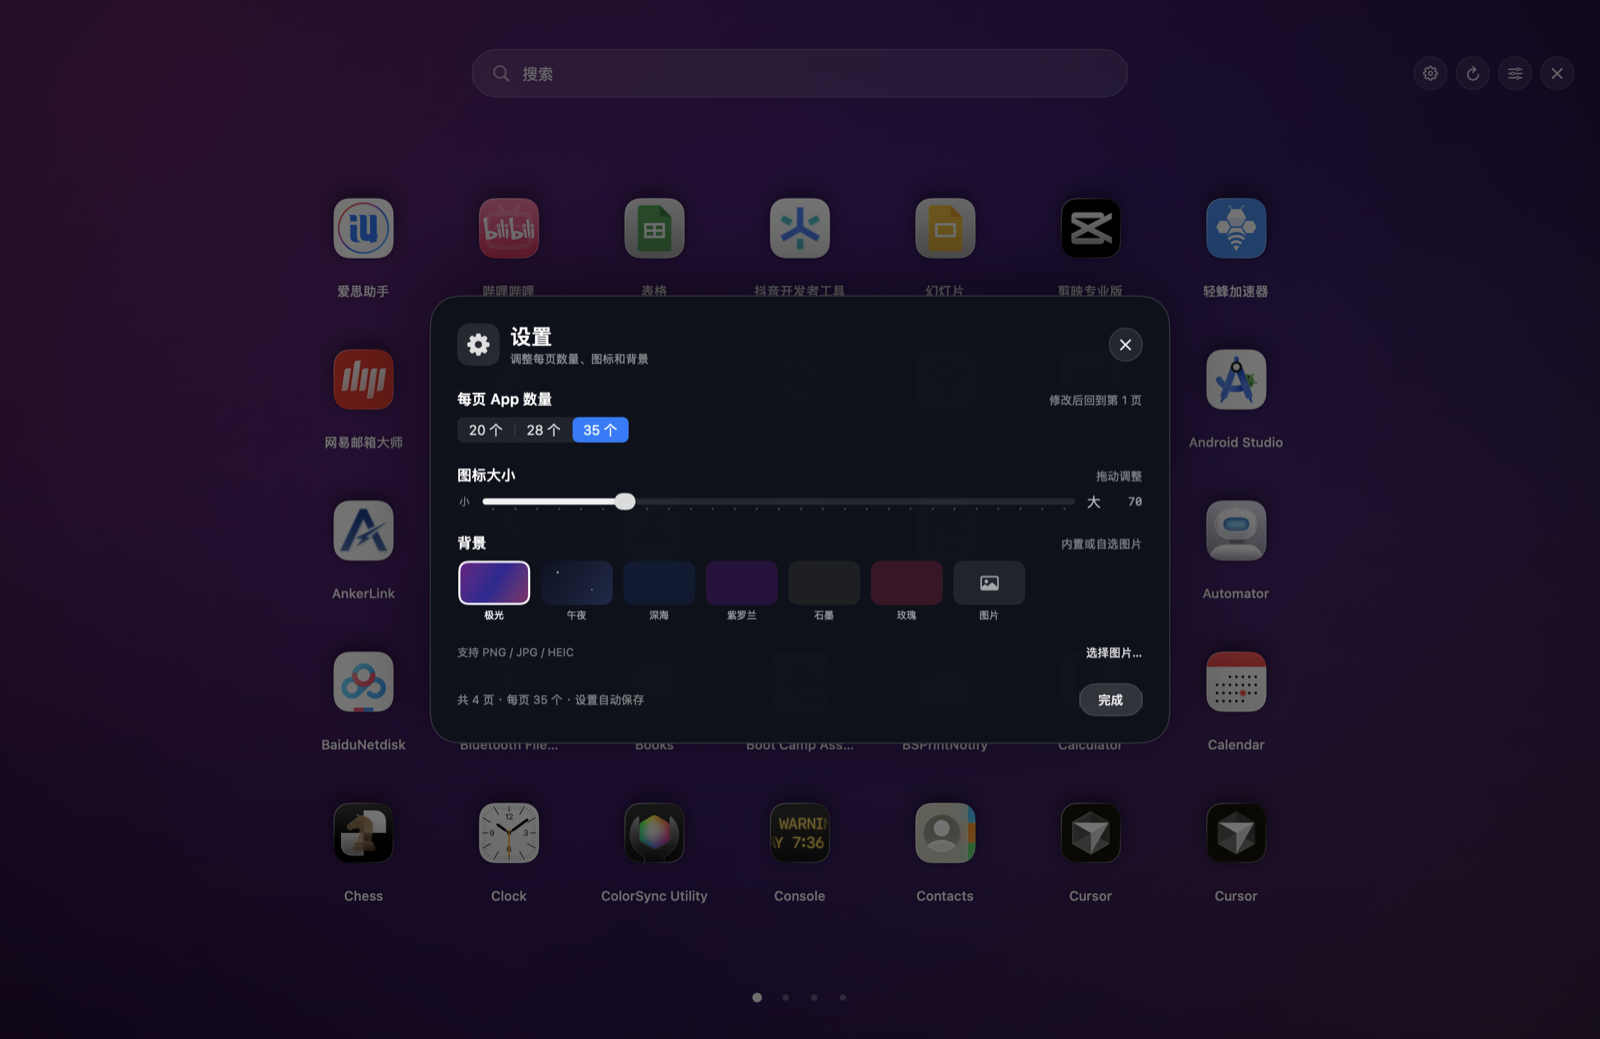
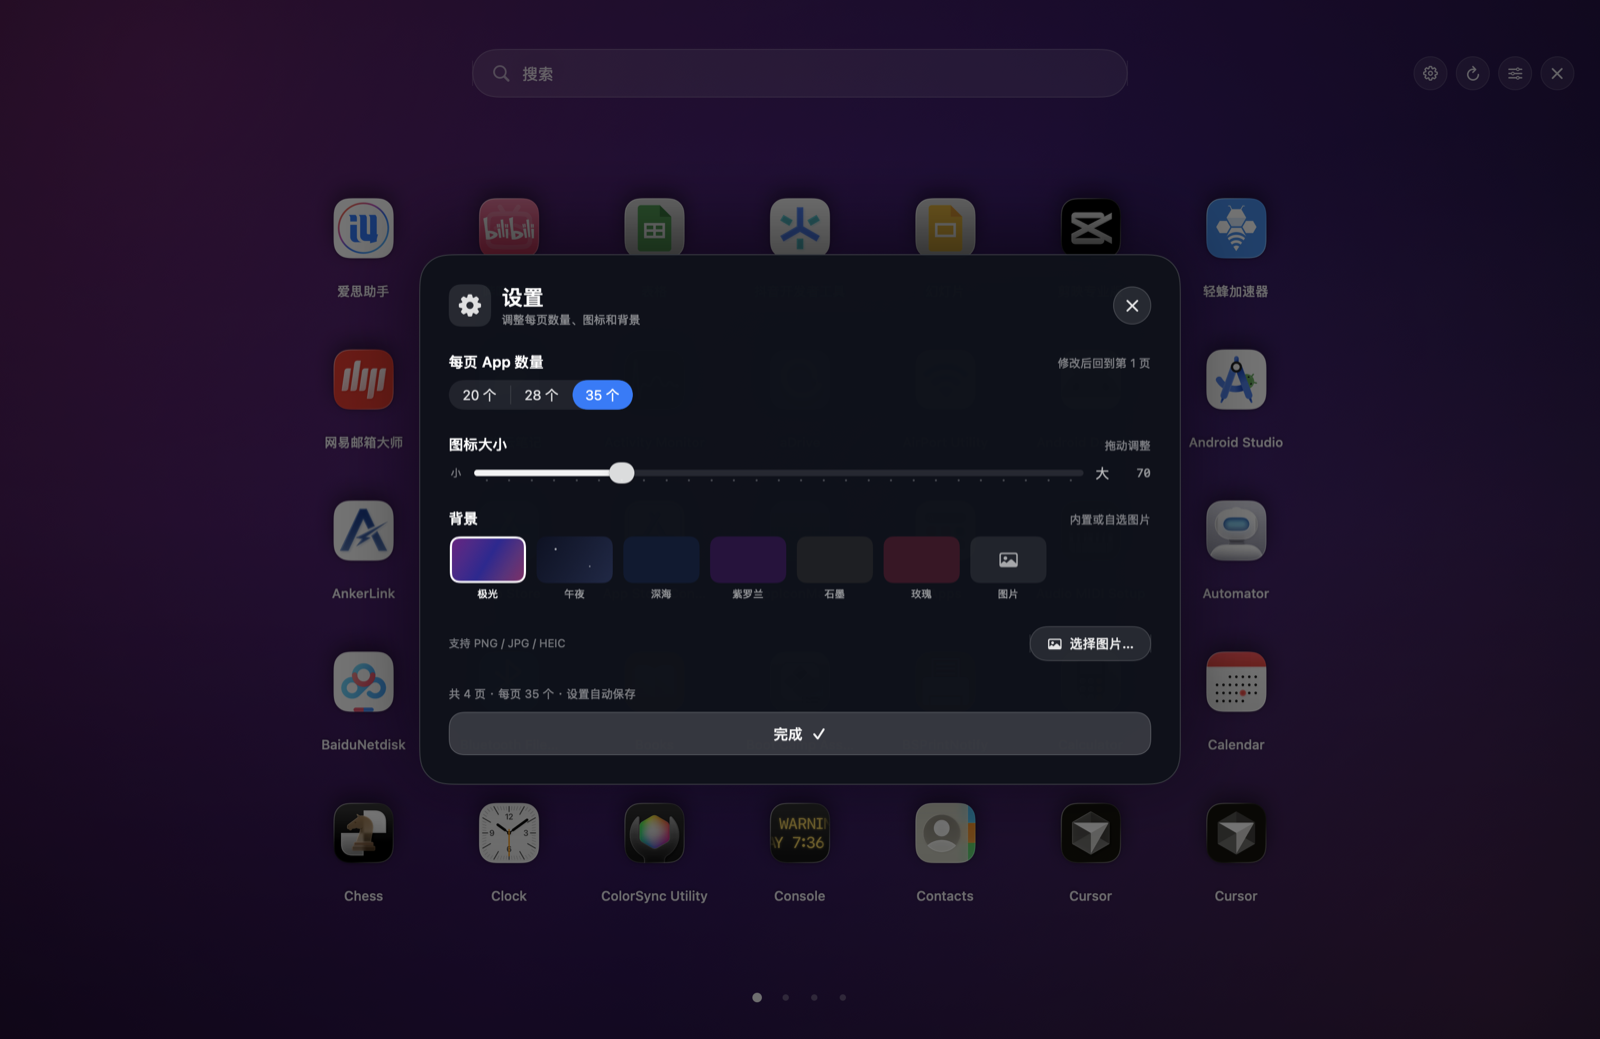
Enlarge settings action buttons

diff --git a/Sources/SettingsOverlay.swift b/Sources/SettingsOverlay.swift
@@ -13,7 +13,7 @@ struct SettingsOverlay: View {
                 .contentShape(Rectangle())
                 .onTapGesture { close() }
 
-            VStack(alignment: .leading, spacing: 22) {
+            VStack(alignment: .leading, spacing: 24) {
                 HStack(spacing: 10) {
                     Image(systemName: "gearshape.fill")
                         .font(.system(size: 20, weight: .semibold))
@@ -35,9 +35,7 @@ struct SettingsOverlay: View {
 
                     Spacer()
 
-                    CircleActionButton(systemName: "xmark", help: "关闭设置") {
-                        close()
-                    }
+                    settingsCloseButton
                 }
 
                 settingRow(
@@ -51,6 +49,7 @@ struct SettingsOverlay: View {
                     }
                     .pickerStyle(.segmented)
                     .labelsHidden()
+                    .controlSize(.large)
                 }
 
                 settingRow(
@@ -65,6 +64,7 @@ struct SettingsOverlay: View {
 
                         Slider(value: $model.iconSide, in: 64...90, step: 1)
                             .tint(Color.white.opacity(0.82))
+                            .controlSize(.large)
 
                         Text("大")
                             .font(.system(size: 13))
@@ -97,20 +97,14 @@ struct SettingsOverlay: View {
 
                     Spacer()
 
-                    Button("选择图片…") {
+                    pillButton(title: "选择图片…", systemImage: "photo") {
                         chooseBackgroundImage()
                     }
-                    .buttonStyle(.plain)
-                    .font(.system(size: 11, weight: .medium))
-                    .foregroundStyle(.white.opacity(0.82))
 
                     if model.hasCustomBackground {
-                        Button("移除") {
+                        pillButton(title: "移除", systemImage: "trash", subtle: true) {
                             model.clearCustomBackground()
                         }
-                        .buttonStyle(.plain)
-                        .font(.system(size: 11, weight: .medium))
-                        .foregroundStyle(.white.opacity(0.60))
                     }
                 }
 
@@ -120,41 +114,44 @@ struct SettingsOverlay: View {
                             .font(.system(size: 11))
                             .foregroundStyle(.white.opacity(0.50))
                         Spacer()
-                        Button("全部恢复") {
+                        pillButton(title: "全部恢复", systemImage: "arrow.uturn.backward") {
                             model.restoreHiddenApps()
                         }
-                        .buttonStyle(.plain)
-                        .font(.system(size: 11.5, weight: .medium))
-                        .foregroundStyle(.white.opacity(0.85))
-                        .underline()
                     }
                 }
 
-                HStack(spacing: 10) {
+                VStack(alignment: .leading, spacing: 10) {
                     Text("共 \(model.pageCount) 页 · 每页 \(model.appsPerPage) 个 · 设置自动保存")
                         .font(.system(size: 11))
                         .foregroundStyle(.white.opacity(0.45))
 
-                    Spacer()
-
-                    Button("完成") {
+                    Button {
                         close()
+                    } label: {
+                        HStack(spacing: 8) {
+                            Text("完成")
+                                .font(.system(size: 14, weight: .semibold))
+                            Image(systemName: "checkmark")
+                                .font(.system(size: 12, weight: .bold))
+                        }
+                        .foregroundStyle(.white.opacity(0.95))
+                        .frame(maxWidth: .infinity)
+                        .padding(.vertical, 12)
+                        .background {
+                            RoundedRectangle(cornerRadius: 14, style: .continuous)
+                                .fill(Color.white.opacity(0.16))
+                        }
+                        .overlay {
+                            RoundedRectangle(cornerRadius: 14, style: .continuous)
+                                .strokeBorder(Color.white.opacity(0.16), lineWidth: 0.8)
+                        }
                     }
                     .buttonStyle(.plain)
-                    .font(.system(size: 12, weight: .semibold))
-                    .foregroundStyle(.white.opacity(0.9))
-                    .padding(.horizontal, 18)
-                    .padding(.vertical, 8)
-                    .background {
-                        Capsule().fill(Color.white.opacity(0.14))
-                    }
-                    .overlay {
-                        Capsule().strokeBorder(Color.white.opacity(0.14), lineWidth: 0.8)
-                    }
+                    .keyboardShortcut(.defaultAction)
                 }
             }
-            .padding(26)
-            .frame(width: 700)
+            .padding(28)
+            .frame(width: 720)
             .background {
                 // 玻璃材质在部分离屏/旧环境里会显得透明，叠一层深色底保证可读性。
                 RoundedRectangle(cornerRadius: 28, style: .continuous)
@@ -170,6 +167,43 @@ struct SettingsOverlay: View {
         }
     }
 
+    private var settingsCloseButton: some View {
+        Button {
+            close()
+        } label: {
+            Image(systemName: "xmark")
+                .font(.system(size: 14, weight: .semibold))
+                .foregroundStyle(.white.opacity(0.88))
+                .frame(width: 36, height: 36)
+                .background { Circle().fill(Color.white.opacity(0.10)) }
+                .overlay { Circle().strokeBorder(Color.white.opacity(0.16), lineWidth: 0.8) }
+        }
+        .buttonStyle(.plain)
+        .help("关闭设置")
+    }
+
+    private func pillButton(
+        title: String,
+        systemImage: String,
+        subtle: Bool = false,
+        action: @escaping () -> Void
+    ) -> some View {
+        Button(action: action) {
+            HStack(spacing: 6) {
+                Image(systemName: systemImage)
+                    .font(.system(size: 11, weight: .semibold))
+                Text(title)
+                    .font(.system(size: 12.5, weight: .semibold))
+            }
+            .foregroundStyle(.white.opacity(subtle ? 0.65 : 0.88))
+            .padding(.horizontal, 16)
+            .padding(.vertical, 9)
+            .background { Capsule().fill(Color.white.opacity(subtle ? 0.06 : 0.10)) }
+            .overlay { Capsule().strokeBorder(Color.white.opacity(subtle ? 0.08 : 0.14), lineWidth: 0.8) }
+        }
+        .buttonStyle(.plain)
+    }
+
     private func presetSwatch(_ style: BackgroundStyle) -> some View {
         Button {
             model.selectBackground(style)
@@ -177,21 +211,21 @@ struct SettingsOverlay: View {
             VStack(spacing: 4) {
                 ZStack {
                     BackgroundSwatchFill(style: style, image: nil)
-                        .frame(width: 68, height: 42)
+                        .frame(width: 72, height: 44)
 
                     if model.backgroundStyle == style {
                         RoundedRectangle(cornerRadius: 9, style: .continuous)
                             .strokeBorder(Color.white, lineWidth: 2)
-                            .frame(width: 68, height: 42)
+                            .frame(width: 72, height: 44)
                     }
                 }
-                .frame(width: 68, height: 42)
+                .frame(width: 72, height: 44)
                 .clipShape(RoundedRectangle(cornerRadius: 9, style: .continuous))
                 Text(style.title)
-                    .font(.system(size: 9.5))
+                    .font(.system(size: 10))
                     .foregroundStyle(.white.opacity(model.backgroundStyle == style ? 0.95 : 0.55))
             }
-            .frame(width: 70)
+            .frame(width: 74)
         }
         .buttonStyle(.plain)
     }
@@ -210,11 +244,11 @@ struct SettingsOverlay: View {
                         Image(nsImage: image)
                             .resizable()
                             .scaledToFill()
-                            .frame(width: 68, height: 42)
+                            .frame(width: 72, height: 44)
                     } else {
                         RoundedRectangle(cornerRadius: 9, style: .continuous)
                             .fill(Color.white.opacity(0.08))
-                            .frame(width: 68, height: 42)
+                            .frame(width: 72, height: 44)
                         Image(systemName: "photo")
                             .font(.system(size: 15, weight: .medium))
                             .foregroundStyle(.white.opacity(0.60))
@@ -223,16 +257,16 @@ struct SettingsOverlay: View {
                     if model.backgroundStyle == .custom {
                         RoundedRectangle(cornerRadius: 9, style: .continuous)
                             .strokeBorder(Color.white, lineWidth: 2)
-                            .frame(width: 68, height: 42)
+                            .frame(width: 72, height: 44)
                     }
                 }
-                .frame(width: 68, height: 42)
+                .frame(width: 72, height: 44)
                 .clipShape(RoundedRectangle(cornerRadius: 9, style: .continuous))
                 Text("图片")
-                    .font(.system(size: 9.5))
+                    .font(.system(size: 10))
                     .foregroundStyle(.white.opacity(model.backgroundStyle == .custom ? 0.95 : 0.55))
             }
-            .frame(width: 70)
+            .frame(width: 74)
         }
         .buttonStyle(.plain)
         .help(model.hasCustomBackground ? "点击切换或更换图片" : "选择一张图片")
